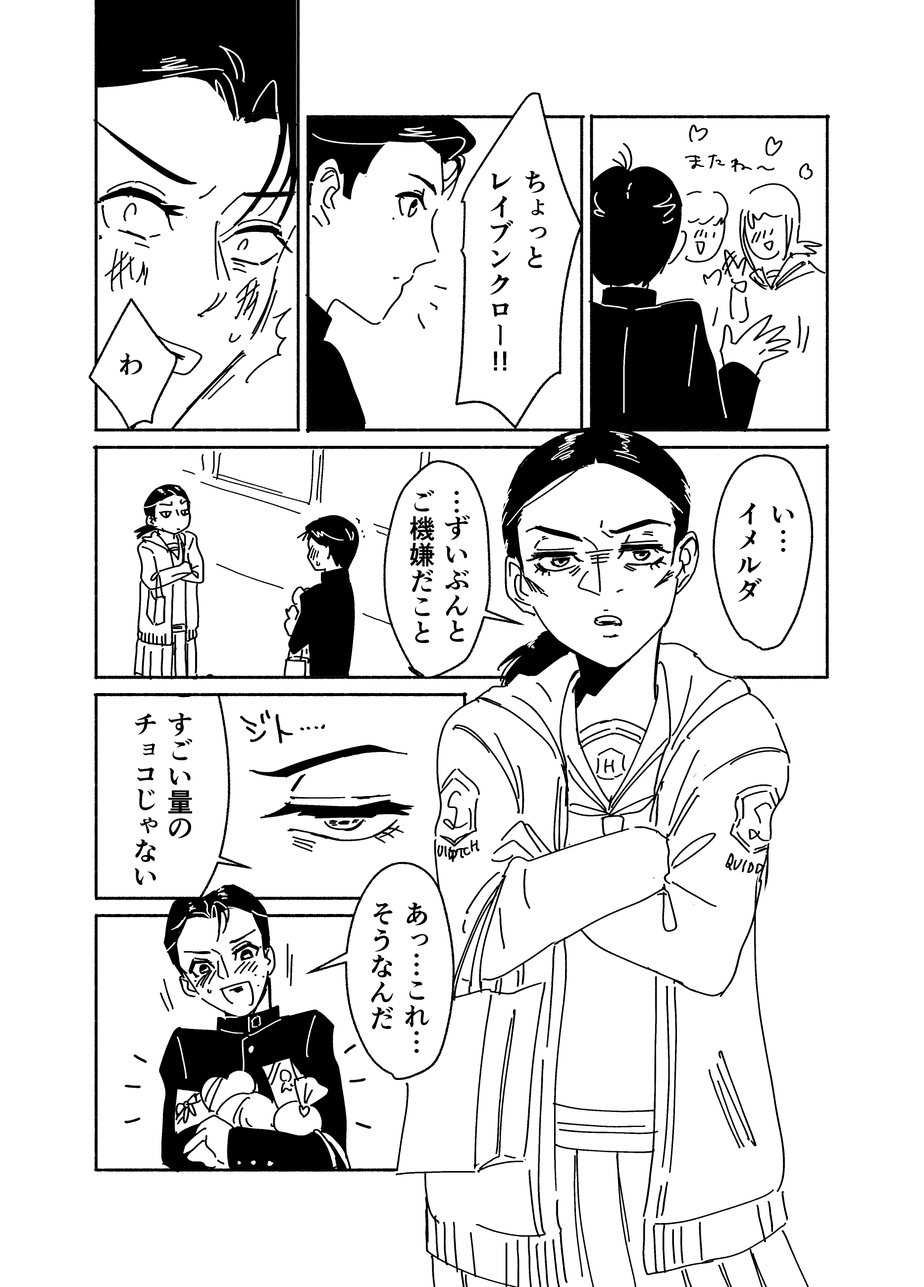
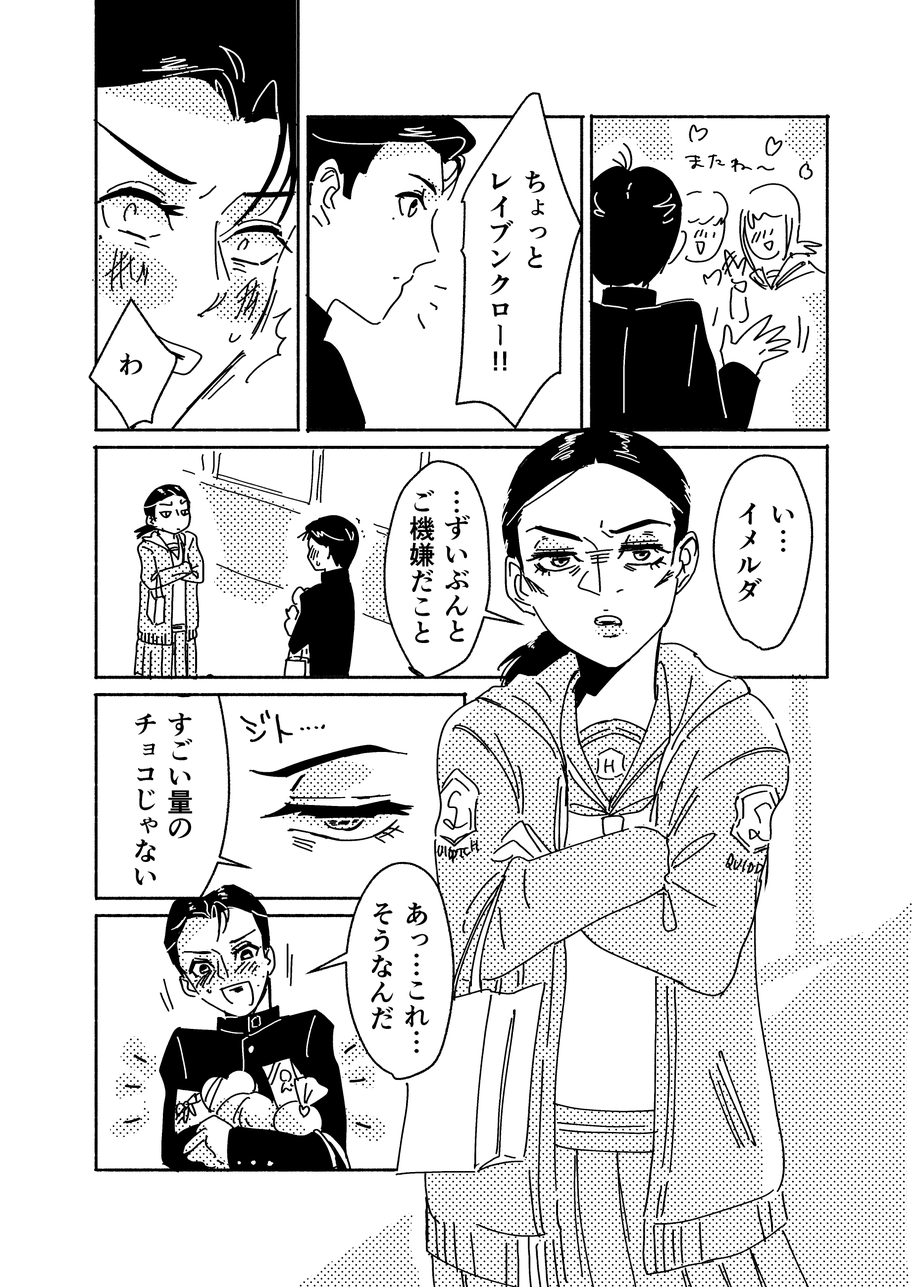
fix : トーンはった

diff --git a/assets/index-BQvgfx6K.js b/assets/index-BQvgfx6K.js
@@ -53,5 +53,5 @@ Error generating stack: `+a.message+`
  */const Ah="http://www.w3.org/2000/svg";function Ro(c){const[d,h,,,f]=c.icon,T=document.createElement("i");T.classList.add(`${c.prefix}-${c.iconName}`);const A=T.appendChild(document.createElementNS(Ah,"svg"));A.classList.add("viewer-fa-icon"),A.setAttribute("viewBox",`0 0 ${d} ${h}`);const C=Array.isArray(f)?f:[f];for(const M of C){const x=A.appendChild(document.createElementNS(Ah,"path"));x.setAttribute("fill","currentColor"),x.setAttribute("d",M)}return T}var qh={};(function(c){Object.defineProperty(c,"__esModule",{value:!0});var d="fas",h="gear",f=512,T=512,A=[9881,"cog"],C="f013",M="M495.9 166.6c3.2 8.7 .5 18.4-6.4 24.6l-43.3 39.4c1.1 8.3 1.7 16.8 1.7 25.4s-.6 17.1-1.7 25.4l43.3 39.4c6.9 6.2 9.6 15.9 6.4 24.6c-4.4 11.9-9.7 23.3-15.8 34.3l-4.7 8.1c-6.6 11-14 21.4-22.1 31.2c-5.9 7.2-15.7 9.6-24.5 6.8l-55.7-17.7c-13.4 10.3-28.2 18.9-44 25.4l-12.5 57.1c-2 9.1-9 16.3-18.2 17.8c-13.8 2.3-28 3.5-42.5 3.5s-28.7-1.2-42.5-3.5c-9.2-1.5-16.2-8.7-18.2-17.8l-12.5-57.1c-15.8-6.5-30.6-15.1-44-25.4L83.1 425.9c-8.8 2.8-18.6 .3-24.5-6.8c-8.1-9.8-15.5-20.2-22.1-31.2l-4.7-8.1c-6.1-11-11.4-22.4-15.8-34.3c-3.2-8.7-.5-18.4 6.4-24.6l43.3-39.4C64.6 273.1 64 264.6 64 256s.6-17.1 1.7-25.4L22.4 191.2c-6.9-6.2-9.6-15.9-6.4-24.6c4.4-11.9 9.7-23.3 15.8-34.3l4.7-8.1c6.6-11 14-21.4 22.1-31.2c5.9-7.2 15.7-9.6 24.5-6.8l55.7 17.7c13.4-10.3 28.2-18.9 44-25.4l12.5-57.1c2-9.1 9-16.3 18.2-17.8C227.3 1.2 241.5 0 256 0s28.7 1.2 42.5 3.5c9.2 1.5 16.2 8.7 18.2 17.8l12.5 57.1c15.8 6.5 30.6 15.1 44 25.4l55.7-17.7c8.8-2.8 18.6-.3 24.5 6.8c8.1 9.8 15.5 20.2 22.1 31.2l4.7 8.1c6.1 11 11.4 22.4 15.8 34.3zM256 336c44.2 0 80-35.8 80-80s-35.8-80-80-80s-80 35.8-80 80s35.8 80 80 80z";c.definition={prefix:d,iconName:h,icon:[f,T,A,C,M]},c.faGear=c.definition,c.prefix=d,c.iconName=h,c.width=f,c.height=T,c.ligatures=A,c.unicode=C,c.svgPathData=M,c.aliases=A})(qh);const so="viewer-control-area-visible";class A0 extends Wu{constructor(d){super(),Z(this,$l),Z(this,Ze,void 0),Z(this,kl,0),Z(this,rn,!0),Z(this,Kl,void 0),Z(this,Nu,void 0),Z(this,Uu,void 0),Z(this,ul,void 0),Z(this,Cu,void 0),Z(this,Jl,void 0),Z(this,Wl,void 0),k(this,Ze,d),k(this,Kl,this.createRef()),k(this,Nu,this.createRef(h=>{h.addEventListener("click",g(this,Ze).onClickLeft)})),k(this,Uu,this.createRef(h=>{h.addEventListener("click",g(this,Ze).onClickRight)})),k(this,ul,this.createRef(h=>{h.value=`${g(this,kl)}`;const f=()=>{if(!g(this,Wl).current)return;let A=Math.round(parseFloat(h.value))+1;const C=g(this,Ze).pageLength;C<A&&(A=C),g(this,Wl).current.innerHTML=`${A} / ${C}`};h.addEventListener("input",()=>{var A;f(),(A=g(this,Jl).current)==null||A.classList.add("viewer-preview-show");const C=Math.round(parseFloat(h.value));g(this,Ze).onThumbnailChanged(C)});const T=()=>{var A;(A=g(this,Jl).current)==null||A.classList.remove("viewer-preview-show")};h.addEventListener("input",()=>{et(this,$l,cn).call(this)}),h.addEventListener("focusout",T),h.addEventListener("mouseup",T),h.addEventListener("touchend",T),h.addEventListener("touchmove",A=>{A.stopPropagation()}),h.addEventListener("change",()=>{T();const A=Math.round(parseFloat(h.value));k(this,kl,A),g(this,Ze).onPageSelectorChanged(A)})})),k(this,Cu,this.createRef(h=>{h.addEventListener("click",()=>{g(this,Ze).onOpenSettings()})})),k(this,Jl,this.createRef()),k(this,Wl,this.createRef())}get direction(){return g(this,Ze).direction}set direction(d){g(this,Ze).direction!==d&&(g(this,Ze).direction=d,et(this,$l,cn).call(this))}get currentIndex(){return g(this,kl)}set currentIndex(d){k(this,kl,d);const h=g(this,ul).current;h&&(h.value=`${d}`,et(this,$l,cn).call(this))}updatePageSelector(d){const h=g(this,ul).current;if(!h)return;const f=Math.round(parseFloat(h.value)),T=Math.round(parseFloat(h.max)),A=g(this,Ze).pageLength,C=A+(A%2===0?0:d?1:0);h.setAttribute("max",`${C}`),h.setAttribute("step",`${d?2:1}`),C!==T&&f===T&&(h.value=`${C}`),et(this,$l,cn).call(this)}get visible(){return g(this,rn)}show(){var d;k(this,rn,!0),(d=g(this,Kl).current)==null||d.classList.add(so)}hide(){var d;k(this,rn,!1),(d=g(this,Kl).current)==null||d.classList.remove(so)}createElement(){return W.h("div",{classNames:["viewer-control-area",so],ref:g(this,Kl)},W.h("div",{classNames:["viewer-header-ctrl"]},g(this,Ze).title&&W.h("h1",{classNames:["viewer-title"]},W.h("span",{classNames:["viewer-title-inner"]},g(this,Ze).title))),W.h("button",{ref:g(this,Nu),classNames:["arrow-button","arrow-button-left"]},W.h("i",{classNames:["arrow-button-inner"]})),W.h("button",{ref:g(this,Uu),classNames:["arrow-button","arrow-button-right"]},W.h("i",{classNames:["arrow-button-inner"]})),W.h("div",{classNames:["viewer-footer-ctrl"]},W.h("input",{ref:g(this,ul),classNames:["viewer-page-selector"],type:"range",min:0,max:1,step:1,value:0}),W.h("button",{ref:g(this,Cu),classNames:["view-settings-button"]},Ro(qh.faGear))),W.h("div",{classNames:["viewer-preview"],ref:g(this,Jl)},W.h("div",{classNames:["viewer-thumbnails"]},g(this,Ze).thumbnailElements),W.h("div",{classNames:["viewer-preview-page-count"],ref:g(this,Wl)},"0 / 0")))}}Ze=new WeakMap;kl=new WeakMap;rn=new WeakMap;Kl=new WeakMap;Nu=new WeakMap;Uu=new WeakMap;ul=new WeakMap;Cu=new WeakMap;Jl=new WeakMap;Wl=new WeakMap;$l=new WeakSet;cn=function(){const c=g(this,ul).current;if(!c)return;const d=Math.round(parseFloat(c.value)),h=Math.round(parseFloat(c.max)),f=d*100/h,T=getComputedStyle(c).getPropertyValue("--viewer-page-selector-bg-color"),A=getComputedStyle(c).getPropertyValue("--viewer-page-selector-active-bg-color"),C=g(this,Ze).direction==="horizontal-rtl"?"left":"right";c.style.background=`linear-gradient(to ${C},${A} ${f}%,${T} ${f}%)`};const O0={normal:"1ページ",spread:"見開き",auto:"自動"},M0={"horizontal-ltr":"左から右 →","horizontal-rtl":"← 右から左"};class R0 extends Wu{constructor(d){super(),Z(this,Hu,void 0),Z(this,ra,null),Z(this,Fl,void 0),Z(this,ju,void 0),Z(this,Pl,void 0),Z(this,Il,void 0),Z(this,qu,void 0),k(this,Hu,d),k(this,Fl,this.createRef()),k(this,ju,this.createRef(h=>{h.addEventListener("click",()=>{this.close()})})),k(this,Pl,zh.reduce((h,f)=>(h[f]=this.createRef(T=>{T.addEventListener("change",()=>{g(this,ra)&&(g(this,ra).pageStyle=T.value)})}),h),{})),k(this,Il,Th.reduce((h,f)=>(h[f]=this.createRef(T=>{T.addEventListener("change",()=>{g(this,ra)&&(g(this,ra).direction=T.value)})}),h),{})),k(this,qu,this.createRef(h=>{h.addEventListener("click",()=>{this.close()})}))}show(d){var h;k(this,ra,d);for(const f of Object.keys(g(this,Pl))){const T=g(this,Pl)[f].current;T&&(d.pageStyle===f?T.setAttribute("checked","true"):T.removeAttribute("checked"))}for(const f of Object.keys(g(this,Il))){const T=g(this,Il)[f].current;T&&(d.direction===f?T.setAttribute("checked","true"):T.removeAttribute("checked"))}(h=g(this,Fl).current)==null||h.classList.add("show-settings")}close(){var d;(d=g(this,Fl).current)==null||d.classList.remove("show-settings"),g(this,ra)&&g(this,Hu).onSettingsChange(g(this,ra))}createElement(){return W.h("div",{ref:g(this,Fl),classNames:["view-settings"]},W.h("div",{ref:g(this,ju),classNames:["modal-bg"]}),W.h("div",{classNames:["view-settings-main"]},W.h("h1",{classNames:["view-settings-title"]},"Settings"),W.h("div",{classNames:["view-settings-content"]},W.h("h2",{classNames:["view-settings-content-title"]},"ページ表示"),W.h("group",{classNames:["view-settings-radio-groups"]},zh.map(d=>W.h("label",{classNames:["view-settings-label"]},W.h("input",{ref:g(this,Pl)[d],classNames:["view-settings-radio"],type:"radio",name:"pageStyle",value:d,checked:!1}),W.h("span",{classNames:["view-settings-label-text"]},O0[d]||d))))),W.h("div",{classNames:["view-settings-content"]},W.h("h2",{classNames:["view-settings-content-title"]},"読む方向"),W.h("group",{classNames:["view-settings-radio-groups"]},Th.map(d=>W.h("label",{classNames:["view-settings-label"]},W.h("input",{ref:g(this,Il)[d],classNames:["view-settings-radio"],type:"radio",name:"direction",value:d,checked:!1}),W.h("span",{classNames:["view-settings-label-text"]},M0[d]||d))))),W.h("button",{ref:g(this,qu),classNames:["view-settings-close-button"]},Ro(Oo.faXmark))))}}Hu=new WeakMap;ra=new WeakMap;Fl=new WeakMap;ju=new WeakMap;Pl=new WeakMap;Il=new WeakMap;qu=new WeakMap;const Oh="viewer-first-page-shown",Mh="viewer-last-page-shown";class D0 extends Wu{constructor(d,h){super(),Z(this,Xu),Z(this,ku),Z(this,So),Z(this,Ku),Z(this,Ju),dn(this,"pages"),Z(this,ei,void 0),Z(this,Ha,void 0),Z(this,ca,void 0),Z(this,Tt,void 0),Z(this,on,void 0),Z(this,me,void 0),Z(this,Vu,[]),Z(this,rl,[]),Z(this,ti,!1),Z(this,ai,void 0),Z(this,Qt,void 0),Z(this,Bu,void 0),Z(this,Lu,void 0),Z(this,Gu,void 0),Z(this,Yu,void 0),k(this,me,h);let f,T=!0;k(this,ai,h.pageStyle==="spread");const A=()=>{T&&(window.clearTimeout(f),g(this,Tt).show(),!(g(this,me).controlShowTime<=0)&&(f=window.setTimeout(()=>{g(this,Tt).hide()},g(this,me).controlShowTime)))},C=()=>{T=!1,window.clearTimeout(f),g(this,Tt).show()},M=()=>{T=!0,A()};k(this,Qt,this.createRef(x=>{x.style.setProperty("--default-width",`${g(this,me).pageSize.width}`),x.style.setProperty("--default-wide-width",`${g(this,me).pageSize.width*2}`),x.style.setProperty("--default-height",`${g(this,me).pageSize.height}`),x.addEventListener("click",A),M()})),k(this,Bu,this.createRef()),this.pages=d.map((x,w)=>new x0(x,{index:w,size:g(this,me).pageSize,pageType:g(this,me).useRawImage?"image":"canvas",onTapLeft:()=>this.goLeft(),onTapRight:()=>this.goRight()})),k(this,ei,new z0({index:this.pages.length,onTapLeft:()=>this.goLeft(),onTapRight:()=>this.goRight()})),k(this,Ha,new T0({index:this.pages.length+1,element:g(this,me).lastPageElement,onTapLeft:()=>this.goLeft(),onTapRight:()=>this.goRight(),onDispose:()=>g(this,me).onDispose()})),k(this,ca,[...this.pages,g(this,ei),g(this,Ha)]),k(this,Tt,new A0({title:g(this,me).title,pageLength:this.pages.length,direction:g(this,me).direction,thumbnailElements:g(this,ca).map(x=>x.createThumbnailElement()),onOpenSettings:()=>{C(),g(this,on).show({direction:this.direction,pageStyle:this.pageStyle})},onClickLeft:()=>this.goLeft(),onClickRight:()=>this.goRight(),onThumbnailChanged:x=>{A();const w=g(this,ca).find(ee=>ee.index===x),B=w===g(this,ei)?g(this,Ha).thumbnailElement:w==null?void 0:w.thumbnailElement;B==null||B.scrollIntoView()},onPageSelectorChanged:x=>this.goTo(x)})),k(this,on,new R0({onSettingsChange:x=>{this.direction=x.direction,this.pageStyle=x.pageStyle,et(this,Ju,Ao).call(this),M()}})),k(this,Gu,this.createRef(x=>{new IntersectionObserver(B=>{for(const ee of B){const ie=ee.isIntersecting;k(this,ai,ie),g(this,Tt).updatePageSelector(ie)}},{root:g(this,Qt).current}).observe(x)})),k(this,Yu,this.createRef(x=>{x.addEventListener("click",()=>{g(this,me).onDispose()})})),k(this,Lu,this.createRef(x=>{et(this,So,jh).call(this,x,g(this,ca)),x.addEventListener("click",w=>{w.stopPropagation(),g(this,Tt).visible?(window.clearTimeout(f),g(this,Tt).hide()):A()})}))}get pageStyle(){return g(this,me).pageStyle}set pageStyle(d){g(this,me).pageStyle!==d&&(g(this,me).pageStyle=d,et(this,Xu,wo).call(this))}get direction(){return g(this,me).direction}set direction(d){g(this,me).direction!==d&&(g(this,me).direction=d,g(this,Tt).direction=d,et(this,Xu,wo).call(this))}openSettings(){g(this,ti)&&k(this,ti,!1)}closeSettings(){g(this,ti)||k(this,ti,!0)}createElement(){const d=et(this,ku,To).call(this);return W.h("div",{classNames:d,ref:g(this,Qt)},W.h("div",{classNames:["modal-bg","viewer-bg"]}),W.h("div",{ref:g(this,Bu),classNames:["viewer-main"]},W.h("div",{ref:g(this,Lu),classNames:["viewer-pages"]},g(this,ca).map(h=>h.createElement())),g(this,Tt).createElement()),W.h("button",{ref:g(this,Yu),classNames:["viewer-close-button"]},Ro(Oo.faXmark)),g(this,on).createElement(),W.h("div",{classNames:["page-style-checker"],ref:g(this,Gu)}))}get currentIndex(){return g(this,rl).length===0?0:Math.min(...g(this,rl))}get isLastPage(){const d=g(this,ca).find(h=>h.index===this.currentIndex);return(d==null?void 0:d.element)===g(this,Ha).element}onCurrentIndexChanged(d){g(this,Vu).push(d)}goBack(){this.goTo(this.currentIndex-(g(this,ai)||this.isLastPage?2:1))}goNext(){this.goTo(this.currentIndex+(g(this,ai)?2:1))}goLeft(){g(this,me).direction==="horizontal-rtl"?this.goNext():this.goBack()}goRight(){g(this,me).direction==="horizontal-rtl"?this.goBack():this.goNext()}goTo(d){const h=g(this,ca).find(T=>T.index===d),f=h===g(this,ei)?g(this,Ha).element:h==null?void 0:h.element;window.setTimeout(()=>{f==null||f.scrollIntoView()},1)}}ei=new WeakMap;Ha=new WeakMap;ca=new WeakMap;Tt=new WeakMap;on=new WeakMap;me=new WeakMap;Vu=new WeakMap;rl=new WeakMap;ti=new WeakMap;ai=new WeakMap;Qt=new WeakMap;Bu=new WeakMap;Lu=new WeakMap;Gu=new WeakMap;Yu=new WeakMap;Xu=new WeakSet;wo=function(){const c=g(this,Qt).current;c&&(c.setAttribute("class",""),c.classList.add(...et(this,ku,To).call(this)))};ku=new WeakSet;To=function(){const c=[xh,`${xh}-root`];return g(this,me).direction.startsWith("horizontal-")&&c.push("horizontal-viewer"),c.push(g(this,me).direction),c.push(`page-style-${g(this,me).pageStyle}`),g(this,me).modal&&c.push("modal-viewer"),c};So=new WeakSet;jh=function(c,d){const h=new Set;let f=!1,T;c.addEventListener("scroll",()=>{T!=null&&window.clearTimeout(T),T=window.setTimeout(()=>{T=void 0,f&&(f=!1,et(this,Ku,_o).call(this,[...h]))},100)});const A=new IntersectionObserver(C=>{for(const M of C){const x=d.find(w=>w.element===M.target);x&&(M.isIntersecting?h.add(x.index):h.delete(x.index),T!=null?f=!0:(f=!1,et(this,Ku,_o).call(this,[...h])))}},{root:c,threshold:.6});for(const C of d)C.setup(M=>{A.observe(M)})};Ku=new WeakSet;_o=function(c){k(this,rl,c),g(this,Tt).currentIndex=this.currentIndex,et(this,Ju,Ao).call(this);for(const d of g(this,Vu))d(this.currentIndex)};Ju=new WeakSet;Ao=function(){var c,d,h,f;g(this,rl).includes(0)?(c=g(this,Qt).current)==null||c.classList.add(Oh):(d=g(this,Qt).current)==null||d.classList.remove(Oh),g(this,rl).includes(g(this,Ha).index)?(h=g(this,Qt).current)==null||h.classList.add(Mh):(f=g(this,Qt).current)==null||f.classList.remove(Mh)};class N0{constructor(d,{parent:h,...f}){Z(this,Ae,void 0),Z(this,fn,void 0),Z(this,sn,void 0),Z(this,Ca,!1),Z(this,Qu,M=>{M.key==="ArrowLeft"||M.key==="Left"?g(this,Ae).goLeft():(M.key==="ArrowRight"||M.key==="Right")&&g(this,Ae).goRight()}),k(this,Ae,new D0(d,{...f,onDispose:()=>this.dispose()})),k(this,fn,h),k(this,sn,Bh(g(this,Ae).createElement(),g(this,fn)));const T=4;let A=Promise.resolve();g(this,Ae).onCurrentIndexChanged(M=>{if(g(this,Ca))return;const x=g(this,Ae).pages.filter(w=>!w.loaded&&w.index>=M&&w.index<M+T);for(const w of x)A=A.then(async()=>{if(!g(this,Ca))try{await w.contentLoad()}catch(B){console.error(B)}})});let C=Promise.resolve();for(const M of g(this,Ae).pages)C=C.then(async()=>{if(!g(this,Ca))try{await M.contentLoad()}catch(x){console.error(x)}});document.addEventListener("keydown",g(this,Qu))}get pages(){return g(this,Ae).pages}get disposed(){return g(this,Ca)}goPrev(){g(this,Ae).goBack()}goBack(){g(this,Ae).goBack()}goNext(){g(this,Ae).goNext()}goLeft(){g(this,Ae).goLeft()}goRight(){g(this,Ae).goRight()}goTo(d){g(this,Ae).goTo(d)}get currentIndex(){return g(this,Ae).currentIndex}get isLastPage(){return g(this,Ae).isLastPage}openSettings(){g(this,Ae).openSettings()}closeSettings(){g(this,Ae).closeSettings()}onCurrentIndexChanged(d){g(this,Ae).onCurrentIndexChanged(d)}dispose(){g(this,Ca)||(document.removeEventListener("keydown",g(this,Qu)),g(this,sn)&&g(this,fn).removeChild(g(this,sn)),k(this,Ca,!0))}}Ae=new WeakMap;fn=new WeakMap;sn=new WeakMap;Ca=new WeakMap;Qu=new WeakMap;function Bh(c,d){var h;const{tag:f,props:T,children:A}=c;if(typeof f=="function")throw"Not support";const C=d.appendChild(document.createElement(f));for(const M of A.flat())M instanceof HTMLElement?C.appendChild(M):typeof M=="string"?C.append(M):Bh(M,C);if(T){const{ref:M,classNames:x,...w}=T;C.classList.add(...x);for(const B of Object.keys(w)){const ee=`${w[B]}`;B==="checked"&&ee==="false"||C.setAttribute(B,ee)}M&&(M.current=C,(h=M.setup)==null||h.call(M,C))}return C}function U0(c){return new C0(c)}class C0{constructor(d){dn(this,"loadLimit",E0),this.load=d}limit(d){return this.loadLimit=d,this}build(d){const h=this.load,f=this.loadLimit,T=[];for(let A=0;A<d;A+=f){const C=d-A>=f?f:d-A;let M=null;T.push(Array(C).fill(0).map((x,w)=>({load:async()=>(M||(M=h(C,A)),(await M)[w])})))}return T.flat()}}function Lh(c,d){const h=H0(d),f=d==null?void 0:d.insertTarget;let T;if(h.modal?T=document.body:T=typeof f=="string"?document.querySelector(f):f,T==null)throw`Missing element: ${f}`;return new N0(c.map(A=>typeof A!="string"&&"load"in A?A:{load:()=>Promise.resolve(A)}),{parent:T,...h})}Lh.asyncLoadBuilder=U0;function H0(c){var d,h,f,T;const A=(c==null?void 0:c.pageSize)||{width:S0,height:_0},C=(c==null?void 0:c.pageStyle)||"auto",M=(c==null?void 0:c.direction)||"horizontal-rtl",x=(d=c==null?void 0:c.modal)!=null?d:(c==null?void 0:c.insertTarget)===void 0;return{pageSize:A,pageStyle:C,direction:M,modal:x,title:(h=c==null?void 0:c.title)!=null?h:"",controlShowTime:(f=c==null?void 0:c.controlShowTime)!=null?f:3e3,useRawImage:(T=c==null?void 0:c.useRawImage)!=null?T:!1,lastPageElement:c==null?void 0:c.lastPageElement}}var ho={},vo={},go={},Rh;function j0(){return Rh||(Rh=1,function(c){Object.defineProperty(c,"__esModule",{value:!0}),c.default=void 0;var d=function(){for(var T=arguments.length,A=new Array(T),C=0;C<T;C++)A[C]=arguments[C];if(typeof window<"u"){var M;typeof window.gtag>"u"&&(window.dataLayer=window.dataLayer||[],window.gtag=function(){window.dataLayer.push(arguments)}),(M=window).gtag.apply(M,A)}},h=d;c.default=h}(go)),go}var mo={},Dh;function q0(){return Dh||(Dh=1,function(c){Object.defineProperty(c,"__esModule",{value:!0}),c.default=C;var d=/^(a|an|and|as|at|but|by|en|for|if|in|nor|of|on|or|per|the|to|vs?\.?|via)$/i;function h(M){return M.toString().trim().replace(/[A-Za-z0-9\u00C0-\u00FF]+[^\s-]*/g,function(x,w,B){return w>0&&w+x.length!==B.length&&x.search(d)>-1&&B.charAt(w-2)!==":"&&(B.charAt(w+x.length)!=="-"||B.charAt(w-1)==="-")&&B.charAt(w-1).search(/[^\s-]/)<0?x.toLowerCase():x.substr(1).search(/[A-Z]|\../)>-1?x:x.charAt(0).toUpperCase()+x.substr(1)})}function f(M){return typeof M=="string"&&M.indexOf("@")!==-1}var T="REDACTED (Potential Email Address)";function A(M){return f(M)?(console.warn("This arg looks like an email address, redacting."),T):M}function C(){var M=arguments.length>0&&arguments[0]!==void 0?arguments[0]:"",x=arguments.length>1&&arguments[1]!==void 0?arguments[1]:!0,w=arguments.length>2&&arguments[2]!==void 0?arguments[2]:!0,B=M||"";return x&&(B=h(M)),w&&(B=A(B)),B}}(mo)),mo}var Nh;function B0(){return Nh||(Nh=1,function(c){Object.defineProperty(c,"__esModule",{value:!0}),c.default=c.GA4=void 0;var d=C(j0()),h=C(q0()),f=["eventCategory","eventAction","eventLabel","eventValue","hitType"],T=["title","location"],A=["page","hitType"];function C(H){return H&&H.__esModule?H:{default:H}}function M(H,_){if(H==null)return{};var p=x(H,_),E,R;if(Object.getOwnPropertySymbols){var q=Object.getOwnPropertySymbols(H);for(R=0;R<q.length;R++)E=q[R],!(_.indexOf(E)>=0)&&Object.prototype.propertyIsEnumerable.call(H,E)&&(p[E]=H[E])}return p}function x(H,_){if(H==null)return{};var p={},E=Object.keys(H),R,q;for(q=0;q<E.length;q++)R=E[q],!(_.indexOf(R)>=0)&&(p[R]=H[R]);return p}function w(H){"@babel/helpers - typeof";return w=typeof Symbol=="function"&&typeof Symbol.iterator=="symbol"?function(_){return typeof _}:function(_){return _&&typeof Symbol=="function"&&_.constructor===Symbol&&_!==Symbol.prototype?"symbol":typeof _},w(H)}function B(H){return ve(H)||ie(H)||He(H)||ee()}function ee(){throw new TypeError(`Invalid attempt to spread non-iterable instance.
 In order to be iterable, non-array objects must have a [Symbol.iterator]() method.`)}function ie(H){if(typeof Symbol<"u"&&H[Symbol.iterator]!=null||H["@@iterator"]!=null)return Array.from(H)}function ve(H){if(Array.isArray(H))return $e(H)}function Ge(H,_){var p=Object.keys(H);if(Object.getOwnPropertySymbols){var E=Object.getOwnPropertySymbols(H);_&&(E=E.filter(function(R){return Object.getOwnPropertyDescriptor(H,R).enumerable})),p.push.apply(p,E)}return p}function be(H){for(var _=1;_<arguments.length;_++){var p=arguments[_]!=null?arguments[_]:{};_%2?Ge(Object(p),!0).forEach(function(E){L(H,E,p[E])}):Object.getOwnPropertyDescriptors?Object.defineProperties(H,Object.getOwnPropertyDescriptors(p)):Ge(Object(p)).forEach(function(E){Object.defineProperty(H,E,Object.getOwnPropertyDescriptor(p,E))})}return H}function We(H,_){return ce(H)||Ut(H,_)||He(H,_)||At()}function At(){throw new TypeError(`Invalid attempt to destructure non-iterable instance.
 In order to be iterable, non-array objects must have a [Symbol.iterator]() method.`)}function He(H,_){if(H){if(typeof H=="string")return $e(H,_);var p=Object.prototype.toString.call(H).slice(8,-1);if(p==="Object"&&H.constructor&&(p=H.constructor.name),p==="Map"||p==="Set")return Array.from(H);if(p==="Arguments"||/^(?:Ui|I)nt(?:8|16|32)(?:Clamped)?Array$/.test(p))return $e(H,_)}}function $e(H,_){(_==null||_>H.length)&&(_=H.length);for(var p=0,E=new Array(_);p<_;p++)E[p]=H[p];return E}function Ut(H,_){var p=H==null?null:typeof Symbol<"u"&&H[Symbol.iterator]||H["@@iterator"];if(p!=null){var E,R,q,s,D=[],Y=!0,G=!1;try{if(q=(p=p.call(H)).next,_!==0)for(;!(Y=(E=q.call(p)).done)&&(D.push(E.value),D.length!==_);Y=!0);}catch(j){G=!0,R=j}finally{try{if(!Y&&p.return!=null&&(s=p.return(),Object(s)!==s))return}finally{if(G)throw R}}return D}}function ce(H){if(Array.isArray(H))return H}function Ve(H,_){if(!(H instanceof _))throw new TypeError("Cannot call a class as a function")}function Ct(H,_){for(var p=0;p<_.length;p++){var E=_[p];E.enumerable=E.enumerable||!1,E.configurable=!0,"value"in E&&(E.writable=!0),Object.defineProperty(H,ue(E.key),E)}}function Ht(H,_,p){return _&&Ct(H.prototype,_),Object.defineProperty(H,"prototype",{writable:!1}),H}function L(H,_,p){return _=ue(_),_ in H?Object.defineProperty(H,_,{value:p,enumerable:!0,configurable:!0,writable:!0}):H[_]=p,H}function ue(H){var _=tt(H,"string");return w(_)==="symbol"?_:String(_)}function tt(H,_){if(w(H)!=="object"||H===null)return H;var p=H[Symbol.toPrimitive];if(p!==void 0){var E=p.call(H,_);if(w(E)!=="object")return E;throw new TypeError("@@toPrimitive must return a primitive value.")}return(_==="string"?String:Number)(H)}var dt=function(){function H(){var _=this;Ve(this,H),L(this,"reset",function(){_.isInitialized=!1,_._testMode=!1,_._currentMeasurementId,_._hasLoadedGA=!1,_._isQueuing=!1,_._queueGtag=[]}),L(this,"_gtag",function(){for(var p=arguments.length,E=new Array(p),R=0;R<p;R++)E[R]=arguments[R];_._testMode||_._isQueuing?_._queueGtag.push(E):d.default.apply(void 0,E)}),L(this,"_loadGA",function(p,E){var R=arguments.length>2&&arguments[2]!==void 0?arguments[2]:"https://www.googletagmanager.com/gtag/js";if(!(typeof window>"u"||typeof document>"u")&&!_._hasLoadedGA){var q=document.createElement("script");q.async=!0,q.src="".concat(R,"?id=").concat(p),E&&q.setAttribute("nonce",E),document.body.appendChild(q),window.dataLayer=window.dataLayer||[],window.gtag=function(){window.dataLayer.push(arguments)},_._hasLoadedGA=!0}}),L(this,"_toGtagOptions",function(p){if(p){var E={cookieUpdate:"cookie_update",cookieExpires:"cookie_expires",cookieDomain:"cookie_domain",cookieFlags:"cookie_flags",userId:"user_id",clientId:"client_id",anonymizeIp:"anonymize_ip",contentGroup1:"content_group1",contentGroup2:"content_group2",contentGroup3:"content_group3",contentGroup4:"content_group4",contentGroup5:"content_group5",allowAdFeatures:"allow_google_signals",allowAdPersonalizationSignals:"allow_ad_personalization_signals",nonInteraction:"non_interaction",page:"page_path",hitCallback:"event_callback"},R=Object.entries(p).reduce(function(q,s){var D=We(s,2),Y=D[0],G=D[1];return E[Y]?q[E[Y]]=G:q[Y]=G,q},{});return R}}),L(this,"initialize",function(p){var E=arguments.length>1&&arguments[1]!==void 0?arguments[1]:{};if(!p)throw new Error("Require GA_MEASUREMENT_ID");var R=typeof p=="string"?[{trackingId:p}]:p;_._currentMeasurementId=R[0].trackingId;var q=E.gaOptions,s=E.gtagOptions,D=E.nonce,Y=E.testMode,G=Y===void 0?!1:Y,j=E.gtagUrl;if(_._testMode=G,G||_._loadGA(_._currentMeasurementId,D,j),_.isInitialized||(_._gtag("js",new Date),R.forEach(function(Oe){var oe=be(be(be({},_._toGtagOptions(be(be({},q),Oe.gaOptions))),s),Oe.gtagOptions);Object.keys(oe).length?_._gtag("config",Oe.trackingId,oe):_._gtag("config",Oe.trackingId)})),_.isInitialized=!0,!G){var ae=B(_._queueGtag);for(_._queueGtag=[],_._isQueuing=!1;ae.length;){var F=ae.shift();_._gtag.apply(_,B(F)),F[0]==="get"&&(_._isQueuing=!0)}}}),L(this,"set",function(p){if(!p){console.warn("`fieldsObject` is required in .set()");return}if(w(p)!=="object"){console.warn("Expected `fieldsObject` arg to be an Object");return}Object.keys(p).length===0&&console.warn("empty `fieldsObject` given to .set()"),_._gaCommand("set",p)}),L(this,"_gaCommandSendEvent",function(p,E,R,q,s){_._gtag("event",E,be(be({event_category:p,event_label:R,value:q},s&&{non_interaction:s.nonInteraction}),_._toGtagOptions(s)))}),L(this,"_gaCommandSendEventParameters",function(){for(var p=arguments.length,E=new Array(p),R=0;R<p;R++)E[R]=arguments[R];if(typeof E[0]=="string")_._gaCommandSendEvent.apply(_,B(E.slice(1)));else{var q=E[0],s=q.eventCategory,D=q.eventAction,Y=q.eventLabel,G=q.eventValue;q.hitType;var j=M(q,f);_._gaCommandSendEvent(s,D,Y,G,j)}}),L(this,"_gaCommandSendTiming",function(p,E,R,q){_._gtag("event","timing_complete",{name:E,value:R,event_category:p,event_label:q})}),L(this,"_gaCommandSendPageview",function(p,E){if(E&&Object.keys(E).length){var R=_._toGtagOptions(E),q=R.title,s=R.location,D=M(R,T);_._gtag("event","page_view",be(be(be(be({},p&&{page_path:p}),q&&{page_title:q}),s&&{page_location:s}),D))}else p?_._gtag("event","page_view",{page_path:p}):_._gtag("event","page_view")}),L(this,"_gaCommandSendPageviewParameters",function(){for(var p=arguments.length,E=new Array(p),R=0;R<p;R++)E[R]=arguments[R];if(typeof E[0]=="string")_._gaCommandSendPageview.apply(_,B(E.slice(1)));else{var q=E[0],s=q.page;q.hitType;var D=M(q,A);_._gaCommandSendPageview(s,D)}}),L(this,"_gaCommandSend",function(){for(var p=arguments.length,E=new Array(p),R=0;R<p;R++)E[R]=arguments[R];var q=typeof E[0]=="string"?E[0]:E[0].hitType;switch(q){case"event":_._gaCommandSendEventParameters.apply(_,E);break;case"pageview":_._gaCommandSendPageviewParameters.apply(_,E);break;case"timing":_._gaCommandSendTiming.apply(_,B(E.slice(1)));break;case"screenview":case"transaction":case"item":case"social":case"exception":console.warn("Unsupported send command: ".concat(q));break;default:console.warn("Send command doesn't exist: ".concat(q))}}),L(this,"_gaCommandSet",function(){for(var p=arguments.length,E=new Array(p),R=0;R<p;R++)E[R]=arguments[R];typeof E[0]=="string"&&(E[0]=L({},E[0],E[1])),_._gtag("set",_._toGtagOptions(E[0]))}),L(this,"_gaCommand",function(p){for(var E=arguments.length,R=new Array(E>1?E-1:0),q=1;q<E;q++)R[q-1]=arguments[q];switch(p){case"send":_._gaCommandSend.apply(_,R);break;case"set":_._gaCommandSet.apply(_,R);break;default:console.warn("Command doesn't exist: ".concat(p))}}),L(this,"ga",function(){for(var p=arguments.length,E=new Array(p),R=0;R<p;R++)E[R]=arguments[R];if(typeof E[0]=="string")_._gaCommand.apply(_,E);else{var q=E[0];_._gtag("get",_._currentMeasurementId,"client_id",function(s){_._isQueuing=!1;var D=_._queueGtag;for(q({get:function(j){return j==="clientId"?s:j==="trackingId"?_._currentMeasurementId:j==="apiVersion"?"1":void 0}});D.length;){var Y=D.shift();_._gtag.apply(_,B(Y))}}),_._isQueuing=!0}return _.ga}),L(this,"event",function(p,E){if(typeof p=="string")_._gtag("event",p,_._toGtagOptions(E));else{var R=p.action,q=p.category,s=p.label,D=p.value,Y=p.nonInteraction,G=p.transport;if(!q||!R){console.warn("args.category AND args.action are required in event()");return}var j={hitType:"event",eventCategory:(0,h.default)(q),eventAction:(0,h.default)(R)};s&&(j.eventLabel=(0,h.default)(s)),typeof D<"u"&&(typeof D!="number"?console.warn("Expected `args.value` arg to be a Number."):j.eventValue=D),typeof Y<"u"&&(typeof Y!="boolean"?console.warn("`args.nonInteraction` must be a boolean."):j.nonInteraction=Y),typeof G<"u"&&(typeof G!="string"?console.warn("`args.transport` must be a string."):(["beacon","xhr","image"].indexOf(G)===-1&&console.warn("`args.transport` must be either one of these values: `beacon`, `xhr` or `image`"),j.transport=G)),_._gaCommand("send",j)}}),L(this,"send",function(p){_._gaCommand("send",p)}),this.reset()}return Ht(H,[{key:"gtag",value:function(){this._gtag.apply(this,arguments)}}]),H}();c.GA4=dt;var ht=new dt;c.default=ht}(vo)),vo}var Uh;function L0(){return Uh||(Uh=1,function(c){function d(M){"@babel/helpers - typeof";return d=typeof Symbol=="function"&&typeof Symbol.iterator=="symbol"?function(x){return typeof x}:function(x){return x&&typeof Symbol=="function"&&x.constructor===Symbol&&x!==Symbol.prototype?"symbol":typeof x},d(M)}Object.defineProperty(c,"__esModule",{value:!0}),c.default=c.ReactGAImplementation=void 0;var h=T(B0());function f(M){if(typeof WeakMap!="function")return null;var x=new WeakMap,w=new WeakMap;return(f=function(ee){return ee?w:x})(M)}function T(M,x){if(M&&M.__esModule)return M;if(M===null||d(M)!=="object"&&typeof M!="function")return{default:M};var w=f(x);if(w&&w.has(M))return w.get(M);var B={},ee=Object.defineProperty&&Object.getOwnPropertyDescriptor;for(var ie in M)if(ie!=="default"&&Object.prototype.hasOwnProperty.call(M,ie)){var ve=ee?Object.getOwnPropertyDescriptor(M,ie):null;ve&&(ve.get||ve.set)?Object.defineProperty(B,ie,ve):B[ie]=M[ie]}return B.default=M,w&&w.set(M,B),B}var A=h.GA4;c.ReactGAImplementation=A;var C=h.default;c.default=C}(ho)),ho}var G0=L0();const Eo=c0(G0);var po=xo();function Ie(c,d,h,f=0,T=".jpg"){const A=[];for(let C=d;C<=h;C++){const M=f>0?String(C).padStart(f,"0"):String(C);A.push(`${c}${M}${T}`)}return A}const Y0=[{id:"ryu",cover:"./images/comic/ryu/ryu_thum.jpg",title:"若き龍は青天にのぼる",badge:"sample",description:"転♂たつひこ　入学前のお話",publicationOrder:1,chronologicalOrder:1,recommendedOrder:5,cardCoverPosition:"top"},{id:"tenimelog",cover:"./images/comic/tenimelog/tenimelog_cover.jpg",title:"転♂イメ　単発まんが・らくがき",badge:"zatta",description:"転♂イメ　Xに掲載した過去の単発まんが・らくがき",publicationOrder:3,chronologicalOrder:11,recommendedOrder:11,cardCoverPosition:"top"},{id:"sep1",cover:"./images/comic/sep1/sep1_cover.jpg",title:"6年生の9月1日",badge:"full",description:"転♂イメ　昨年9月1日オンリー日付合わせのif話",publicationOrder:2,chronologicalOrder:12,recommendedOrder:12,cardCoverPosition:"bg-center"},{id:"kakolog",cover:"./images/comic/kakolog/kakolog_cover.jpg",title:"単発まんが・らくがきまとめ",badge:"zatta",description:"オールキャラ　Xに掲載した過去の単発まんが・らくがき",publicationOrder:4,chronologicalOrder:3,recommendedOrder:10,cardCoverPosition:"top"},{id:"mia",cover:"./images/comic/mia/MIA_cover.jpg",title:"Milk in After",badge:"full",description:"転♂イメ　なりゆきで必要の部屋デートする話　WLL4限定本文公開です",publicationOrder:5,chronologicalOrder:4,recommendedOrder:3,cardCoverPosition:"top",spikeText:"Web初"},{id:"aitu",cover:"./images/comic/aitu/aitu_cover.jpg",title:"あいつなんか",badge:"full",description:"転♂イメ　気になるあいつのヤなところ　同人誌「It's not LOVE,Just MAGIC!!」収録",publicationOrder:6,chronologicalOrder:6,recommendedOrder:6,cardCoverPosition:"top"},{id:"mori",cover:"./images/comic/mori/mori_cover.jpg",title:"わるくないかも",badge:"sample",description:"転♂イメ「あいつなんか」の続き　同人誌「It's not LOVE,Just MAGIC!!」収録サンプル",publicationOrder:7,chronologicalOrder:7,recommendedOrder:7,cardCoverPosition:"top"},{id:"ror",cover:"./images/comic/ror/ror_cover.jpg",title:"転入生たちのティールーム",badge:"full",description:"転♂イメ　とある転入生たちが集まる必要の部屋で…　ゲスト転入生いろいろ",publicationOrder:9,chronologicalOrder:5,recommendedOrder:9,cardCoverPosition:"top"},{id:"aoharu",cover:"./images/comic/aoharu/aoharu_cover.jpg",title:"学園思春期お下品漫画",badge:"full",description:"転♂イメ　思春期シモネタコメディ",publicationOrder:8,chronologicalOrder:8,recommendedOrder:8,cardCoverPosition:"bg-center"},{id:"kininaru",cover:"./images/comic/kininaru/kininaru_cover.jpg",title:"気になる理由",badge:"full",description:"転♂イメ　WLL3展示作品　気になることは尽きない",publicationOrder:10,chronologicalOrder:9,recommendedOrder:4,cardCoverPosition:"top"},{id:"valentine",cover:"./images/comic/valentine/valentine_cover.jpg",title:"ホグ高バレンタイン",badge:"full",description:"転♂イメ　WLL4新作　謎の日本風高校パロ",publicationOrder:12,chronologicalOrder:10,recommendedOrder:1,cardCoverPosition:"top",spikeText:"新作"},{id:"whiterice",cover:"./images/comic/whiterice/whiterice_cover.jpg",title:"炊きたての飯の中",badge:"sample",description:"闇中ギャグ　ご飯を炊く転入生",publicationOrder:11,chronologicalOrder:2,recommendedOrder:2,cardCoverPosition:"top",spikeText:`冬コミ
-新刊`}],X0=[{id:"aitu",pages:["./images/comic/blankpage.jpg",...Ie("./images/comic/aitu/aitu_",1,14,3)]},{id:"sep1",pages:["./images/comic/blankpage.jpg",...Ie("./images/comic/sep1/sep1_",1,4,3)]},{id:"mia",pages:["./images/comic/mia/MIA_cover.jpg","./images/comic/blankpage.jpg","./images/comic/blankpage.jpg","./images/comic/mia/MIA_001.jpg","./images/comic/blankpage.jpg",...Ie("./images/comic/mia/MIA_",3,27,3)]},{id:"ryu",pages:["./images/comic/ryu/ryu_cover.jpg","./images/comic/blankpage.jpg","./images/comic/blankpage.jpg",...Ie("./images/comic/ryu/",3,40,2)]},{id:"mori",pages:["./images/comic/blankpage.jpg",...Ie("./images/comic/mori/mori_",1,8,3)]},{id:"ror",pages:["./images/comic/blankpage.jpg",...Ie("./images/comic/ror/ror_",1,4,2)]},{id:"kakolog",pages:[...Ie("./images/comic/kakolog/kakolog_",1,10,2)]},{id:"aoharu",pages:[...Ie("./images/comic/aoharu/aoharu_",1,8,2)]},{id:"kininaru",pages:["./images/comic/blankpage.jpg",...Ie("./images/comic/kininaru/kininaru_",1,12,3),...Ie("./images/comic/kininaru/kininaru_atogaki_",1,3,2)]},{id:"tenimelog",pages:[...Ie("./images/comic/tenimelog/tenimelog_",1,19,2)]},{id:"kininaru",pages:["./images/comic/blankpage.jpg",...Ie("./images/comic/kininaru/kininaru_",1,12,3),...Ie("./images/comic/kininaru/kininaru_atogaki_",1,3,2)]},{id:"whiterice",pages:["./images/comic/whiterice/whiterice_cover.jpg",...Ie("./images/comic/whiterice/whiterice_",3,7,3,".png")]},{id:"valentine",pages:["./images/comic/blankpage.jpg",...Ie("./images/comic/valentine/valentine_",1,8,3,".jpg")]}],Q0=Y0.map(c=>{const d=X0.find(h=>h.id===c.id);return{...c,pages:d?d.pages:[]}}),Z0=c=>{Eo.send({hitType:"pageview",page:"/"+c.id}),window.history.pushState({viewerOpen:!0},"",""),Lh(c.pages,{title:c.title,pageSize:{width:840,height:1188},pageStyle:"auto",direction:"horizontal-rtl",controlShowTime:3e3,useRawImage:!0})},V0=({type:c})=>{if(!c)return null;let d="",h="";switch(c){case"sample":d="同人誌サンプル",h="bg-cyan-300";break;case"full":d="漫画本文",h="bg-yellow-300";break;case"zatta":d="雑多",h="bg-green-300";break;default:return null}return X.jsx("div",{className:`badge absolute top-2 right-2 font-extrabold [border-width:3px] border-black px-2 py-1 shadow-[2px_2px_0_#000] ${h} text-black`,children:d})};function k0(c=32,d=50,h=35,f=50,T=50){const A=2*Math.PI/c,C=[];for(let M=0;M<c;M++){const x=M%2===0?d:h,w=f+x*Math.cos(M*A-Math.PI/2),B=T+x*Math.sin(M*A-Math.PI/2);C.push(`${w},${B}`)}return C.join(" ")}function K0({text:c="Web初"}){const d=k0(32,50,35,50,50),h=c.split(`
+新刊`}],X0=[{id:"aitu",pages:["./images/comic/blankpage.jpg",...Ie("./images/comic/aitu/aitu_",1,14,3)]},{id:"sep1",pages:["./images/comic/blankpage.jpg",...Ie("./images/comic/sep1/sep1_",1,4,3)]},{id:"mia",pages:["./images/comic/mia/MIA_cover.jpg","./images/comic/blankpage.jpg","./images/comic/blankpage.jpg","./images/comic/mia/MIA_001.jpg","./images/comic/blankpage.jpg",...Ie("./images/comic/mia/MIA_",3,27,3)]},{id:"ryu",pages:["./images/comic/ryu/ryu_cover.jpg","./images/comic/blankpage.jpg","./images/comic/blankpage.jpg",...Ie("./images/comic/ryu/",3,40,2)]},{id:"mori",pages:["./images/comic/blankpage.jpg",...Ie("./images/comic/mori/mori_",1,8,3)]},{id:"ror",pages:["./images/comic/blankpage.jpg",...Ie("./images/comic/ror/ror_",1,4,2)]},{id:"kakolog",pages:[...Ie("./images/comic/kakolog/kakolog_",1,10,2)]},{id:"aoharu",pages:[...Ie("./images/comic/aoharu/aoharu_",1,8,2)]},{id:"kininaru",pages:["./images/comic/blankpage.jpg",...Ie("./images/comic/kininaru/kininaru_",1,12,3),...Ie("./images/comic/kininaru/kininaru_atogaki_",1,3,2)]},{id:"tenimelog",pages:[...Ie("./images/comic/tenimelog/tenimelog_",1,19,2)]},{id:"kininaru",pages:["./images/comic/blankpage.jpg",...Ie("./images/comic/kininaru/kininaru_",1,12,3),...Ie("./images/comic/kininaru/kininaru_atogaki_",1,3,2)]},{id:"whiterice",pages:["./images/comic/whiterice/whiterice_cover.jpg",...Ie("./images/comic/whiterice/whiterice_",3,7,3,".png")]},{id:"valentine",pages:["./images/comic/blankpage.jpg",...Ie("./images/comic/valentine/valentine_",1,9,3,".jpg")]}],Q0=Y0.map(c=>{const d=X0.find(h=>h.id===c.id);return{...c,pages:d?d.pages:[]}}),Z0=c=>{Eo.send({hitType:"pageview",page:"/"+c.id}),window.history.pushState({viewerOpen:!0},"",""),Lh(c.pages,{title:c.title,pageSize:{width:840,height:1188},pageStyle:"auto",direction:"horizontal-rtl",controlShowTime:3e3,useRawImage:!0})},V0=({type:c})=>{if(!c)return null;let d="",h="";switch(c){case"sample":d="同人誌サンプル",h="bg-cyan-300";break;case"full":d="漫画本文",h="bg-yellow-300";break;case"zatta":d="雑多",h="bg-green-300";break;default:return null}return X.jsx("div",{className:`badge absolute top-2 right-2 font-extrabold [border-width:3px] border-black px-2 py-1 shadow-[2px_2px_0_#000] ${h} text-black`,children:d})};function k0(c=32,d=50,h=35,f=50,T=50){const A=2*Math.PI/c,C=[];for(let M=0;M<c;M++){const x=M%2===0?d:h,w=f+x*Math.cos(M*A-Math.PI/2),B=T+x*Math.sin(M*A-Math.PI/2);C.push(`${w},${B}`)}return C.join(" ")}function K0({text:c="Web初"}){const d=k0(32,50,35,50,50),h=c.split(`
 `);return X.jsx("div",{className:"absolute top-[-16px] left-[-16px] w-16 h-16 md:w-22 md:h-22 md:top-[-10px] md:left-[-10px] block",children:X.jsxs("svg",{viewBox:"0 0 100 100",className:"w-full h-full",children:[X.jsx("polygon",{points:d,className:"fill-orange-600 stroke-black stroke-[3]"}),X.jsx("text",{x:"50",y:h.length>1?"42":"55",textAnchor:"middle",fontSize:"20",className:"fill-white font-bold",children:h.map((f,T)=>X.jsx("tspan",{x:"50",dy:T===0?0:"1.2em",children:f},T))})]})})}function J0({comic:c,onClick:d}){return X.jsxs("article",{onClick:d,className:"comic-card relative bg-white border-4 border-black shadow-[6px_6px_0_#000] grid grid-cols-[40%_60%] grid-rows-[auto_1fr] h-[160px] w-full md:h-auto before:content-[''] before:absolute before:top-0 before:bottom-0 before:left-[40%] before:border-l-[4px] before:border-black before:pointer-events-none md:before:hidden md:aspect-[3/4] md:grid-cols-1 md:grid-rows-1 md:shadow-[8px_8px_0_#000] hover:cursor-pointer hover:shadow-[0px_0px_0_#000] hover:translate-x-[6px] hover:translate-y-[6px] active:translate-x-[6px] active:translate-y-[6px] transition-all",children:[c.spikeText&&X.jsx(K0,{text:c.spikeText}),X.jsxs("div",{className:"hidden md:flex md:flex-col md:h-full md:w-full",children:[X.jsx("img",{src:c.cover,alt:c.title,className:"md:w-full md:h-[70%] md:object-cover",style:{objectPosition:c.cardCoverPosition||"center"}}),X.jsxs("div",{className:"pc-card-title-and-desc md:block absolute md:static left-0 top-0 w-full md:h-[30%] pointer-events-none md:bg-white md:border-t-[3px] md:border-black md:px-4 md:py-3",children:[X.jsx("div",{className:"font-extrabold text-black md:text-base md:leading-[1.3]",children:c.title}),X.jsx("div",{className:"text-sm leading-6",children:c.description})]})]}),X.jsx("img",{src:c.cover,alt:c.title,className:"col-start-1 row-span-2 w-full h-full object-cover md:hidden",style:{objectPosition:c.cardCoverPosition||"center"}}),X.jsx(V0,{type:c.badge}),X.jsx("div",{className:"card-title col-start-2 row-start-1 mt-14 ml-4 mr-2 text-left text-sm font-extrabold text-black md:hidden",children:c.title}),X.jsx("div",{className:"card-desc col-start-2 row-start-2 ml-2 p-2 text-xs text-left leading-5 md:hidden",children:c.description})]})}function W0(){const[c,d]=po.useState("recommended"),[h,f]=po.useState("asc"),T=po.useMemo(()=>{const A=[...Q0];if(c!=="recommended"||h!=="desc"){const C=h==="asc"?1:-1;c==="publication"?A.sort((M,x)=>((M.publicationOrder??0)-(x.publicationOrder??0))*C):c==="chronological"?A.sort((M,x)=>((M.chronologicalOrder??0)-(x.chronologicalOrder??0))*C):c==="recommended"&&A.sort((M,x)=>((M.recommendedOrder??0)-(x.recommendedOrder??0))*C)}return A},[c,h]);return X.jsxs("section",{className:"comics-gallery",children:[X.jsxs("div",{className:"controls mb-4 flex flex-wrap gap-2 items-center justify-center flex-col",children:[X.jsxs("div",{role:"tablist","aria-label":"ソート基準",className:"inline-flex rounded-md overflow-hidden",children:[X.jsx("button",{type:"button",onClick:()=>{d("recommended"),f("asc")},"aria-pressed":c==="recommended",className:`px-3 py-1 rounded-l-full focus:outline-none focus:ring-0 ${c==="recommended"?"bg-gray-800 border-t-4 border-black text-white":"bg-white border-b-4 border-gray-400 text-gray-800 "}`,children:"おすすめ順"}),X.jsx("button",{type:"button",onClick:()=>{d("publication")},"aria-pressed":c==="publication",className:`px-3 py-1 focus:outline-none focus:ring-0 ${c==="publication"?"bg-gray-800 border-t-4 border-black text-white":"bg-white border-b-4 border-gray-400 text-gray-800 "}`,children:"発行順"}),X.jsx("button",{type:"button",onClick:()=>d("chronological"),"aria-pressed":c==="chronological",className:`px-3 py-1 rounded-r-full focus:outline-none focus:ring-0 ${c==="chronological"?"bg-gray-800 border-t-4 border-black text-white":"bg-white border-b-4 border-gray-400 text-gray-800 "}`,children:"時系列"})]}),X.jsxs("div",{className:"inline-flex rounded-md overflow-hidden",children:[X.jsxs("button",{type:"button",onClick:()=>f("desc"),"aria-pressed":h==="desc",disabled:c==="recommended",className:`px-3 py-1 rounded-l-full focus:outline-none focus:ring-0 ${h==="desc"?"bg-gray-800 border-t-4 border-black text-white":"bg-white border-b-4 border-gray-400 text-gray-800 "} ${c==="recommended"?"opacity-50 pointer-events-none":""}`,children:[c==="publication"?"新しいのが上":"",c==="chronological"?"未来が上":"",c==="recommended"?"-":""]}),X.jsxs("button",{type:"button",onClick:()=>f("asc"),"aria-pressed":h==="asc",disabled:c==="recommended",className:`px-3 py-1 rounded-r-full focus:outline-none focus:ring-0 ${h==="asc"?"bg-gray-800 border-t-4 border-black text-white":"bg-white border-b-4 border-gray-400 text-gray-800 "} ${c==="recommended"?"opacity-50 pointer-events-none":""}`,children:[c==="publication"?"古いのが上":"",c==="chronological"?"過去が上":"",c==="recommended"?"-":""]})]})]}),X.jsx("div",{className:"grid gap-4 grid-cols-1 sm:grid-cols-2 lg:grid-cols-3",children:T.map(A=>X.jsx("div",{children:X.jsx(J0,{comic:A,onClick:()=>{Z0(A)}})},A.id))})]})}function $0(){return Eo.initialize("G-VE733ZZZLF"),Eo.send("pageview"),X.jsxs("div",{className:"min-h-screen antialiased text-gray-800 font-zen-maru",style:{backgroundImage:"url('images/bg-dots.png')"},children:[X.jsx("header",{className:"relative flex flex-col items-center bg-white/30",children:X.jsxs("div",{className:"h-140 w-screen pt-12 pl-8 sm:w-100",style:{backgroundImage:'url("images/hero.png")',backgroundSize:"cover",backgroundPosition:"right",backgroundRepeat:"no-repeat"},children:[X.jsxs("h1",{className:" font-extrabold text-white flex flex-col items-start mb-2",style:{WebkitTextStroke:"1px #000",textShadow:"2px 2px #000"},children:[X.jsx("span",{className:"text-4xl md:text-4xl mb-1",children:"ギンガミズム"}),X.jsx("span",{className:"text-2xl",children:"fromいぬいぬだん"})]}),X.jsxs("p",{className:"text-sm leading-relaxed text-white font-bold mb-4",style:{textShadow:"1px 1px #000"},children:["転♂イメ・転入生♂創作中心",X.jsx("br",{}),"漫画とらくがきがあります"]})]})}),X.jsxs("section",{className:"booth text-center pt-14 pb-10 px-5 flex items-center flex-col",children:[X.jsx("a",{href:"https://gingamism.booth.pm/item_lists/rw9TWePW",target:"_blank",className:"inline-block px-8 py-3 mb-10 bg-orange-600 text-white font-extrabold border-4 border-black shadow-[6px_6px_0_#000] hover:cursor-pointer hover:shadow-[0px_0px_0_#000] hover:translate-x-[6px] hover:translate-y-[6px] active:translate-x-[6px] active:translate-y-[6px] transition-all",children:"同人誌のBOOTH通販はこちら"}),X.jsxs("span",{className:"mb-6 text-sm font-bold",style:{textShadow:"1px 1px #fff"},children:["ご感想はピクスクのメッセージボードでも、",X.jsx("br",{}),"↓のWaveBoxでも、めっちゃ嬉しいです！"]}),X.jsx("a",{href:"https://wavebox.me/wave/c6y7tzcmollx4syt/",target:"_blank",className:"inline-block px-8 py-3 bg-gray-700 text-white font-extrabold border-4 border-black shadow-[6px_6px_0_#000] hover:cursor-pointer hover:shadow-[0px_0px_0_#000] hover:translate-x-[6px] hover:translate-y-[6px] active:translate-x-[6px] active:translate-y-[6px] transition-all",children:"面白かったらポチポチ👋"})]}),X.jsx("section",{className:"pt-10 pb-20",children:X.jsxs("div",{className:"max-w-[1200px] mx-auto px-6 text-center",children:[X.jsx("h2",{className:"text-4xl md:text-4xl font-extrabold text-center text-gray-900 mb-6",style:{textShadow:"2px 2px #fff"},children:"COMIC"}),X.jsx("p",{className:"mb-6 text-sm font-bold",style:{textShadow:"1px 1px #fff"},children:"気づいたらいっぱいありました"}),X.jsx(W0,{})]})}),X.jsxs("section",{className:"booth text-center pt-1 pb-20 px-5 flex items-center flex-col",children:[X.jsx("a",{href:"https://gingamism.booth.pm/item_lists/rw9TWePW",target:"_blank",className:"inline-block px-8 py-3 mb-10 bg-orange-600 text-white font-extrabold border-4 border-black shadow-[6px_6px_0_#000] hover:cursor-pointer hover:shadow-[0px_0px_0_#000] hover:translate-x-[6px] hover:translate-y-[6px] active:translate-x-[6px] active:translate-y-[6px] transition-all",children:"同人誌のBOOTH通販はこちら"}),X.jsx("a",{href:"https://wavebox.me/wave/c6y7tzcmollx4syt/",target:"_blank",className:"inline-block px-8 py-3 bg-gray-700 text-white font-extrabold border-4 border-black shadow-[6px_6px_0_#000] hover:cursor-pointer hover:shadow-[0px_0px_0_#000] hover:translate-x-[6px] hover:translate-y-[6px] active:translate-x-[6px] active:translate-y-[6px] transition-all",children:"面白かったらポチポチ👋"})]}),X.jsx("footer",{className:"relative text-center pt-10 pb-20 px-5 bg-white/70",children:X.jsxs("div",{className:"mx-auto text-center px-6",children:[X.jsxs("p",{className:"text-base text-gray-700 mb-6 font-bold",children:["ご覧いただきありがとうございました！",X.jsx("br",{}),X.jsx("br",{}),"この後も、We Love Legacy 4で",X.jsx("br",{}),"素敵な魔法のひとときを",X.jsx("br",{}),"お過ごしください"]}),X.jsxs("p",{className:"mb-4",children:["カルメ / X：",X.jsx("a",{href:"https://x.com/krkkrm",target:"_blank",className:"underline text-green-700 hover:text-green-500",children:"krkkrm"})]}),X.jsx("p",{className:"flex justify-center items-center mb-10",children:X.jsx("a",{href:"#top",className:"underline text-green-700 hover:text-green-500",children:X.jsx("span",{className:"w-48 h-48 bg-white rounded-full flex items-center justify-center",children:X.jsx("img",{src:"images/icon.svg",alt:"Icon",className:"w-40 h-40"})})})}),X.jsx("p",{children:"たつひこ えかきうた"}),X.jsx("img",{src:"images/ekakiuta.jpg",alt:"ekakiuta",className:"mx-auto mt-6 w-70"})]})})]})}y0.createRoot(document.getElementById("root")).render(X.jsx($0,{}));

diff --git a/index.html b/index.html
@@ -44,7 +44,7 @@
       y.parentNode.insertBefore(t, y);
     })(window, document, "clarity", "script", "t92wv69duh");
   </script>
-  <script type="module" crossorigin src="./assets/index-DSgKf_L6.js"></script>
+  <script type="module" crossorigin src="./assets/index-BQvgfx6K.js"></script>
   <link rel="stylesheet" crossorigin href="./assets/index-fnXTYVTf.css">
 </head>
 
